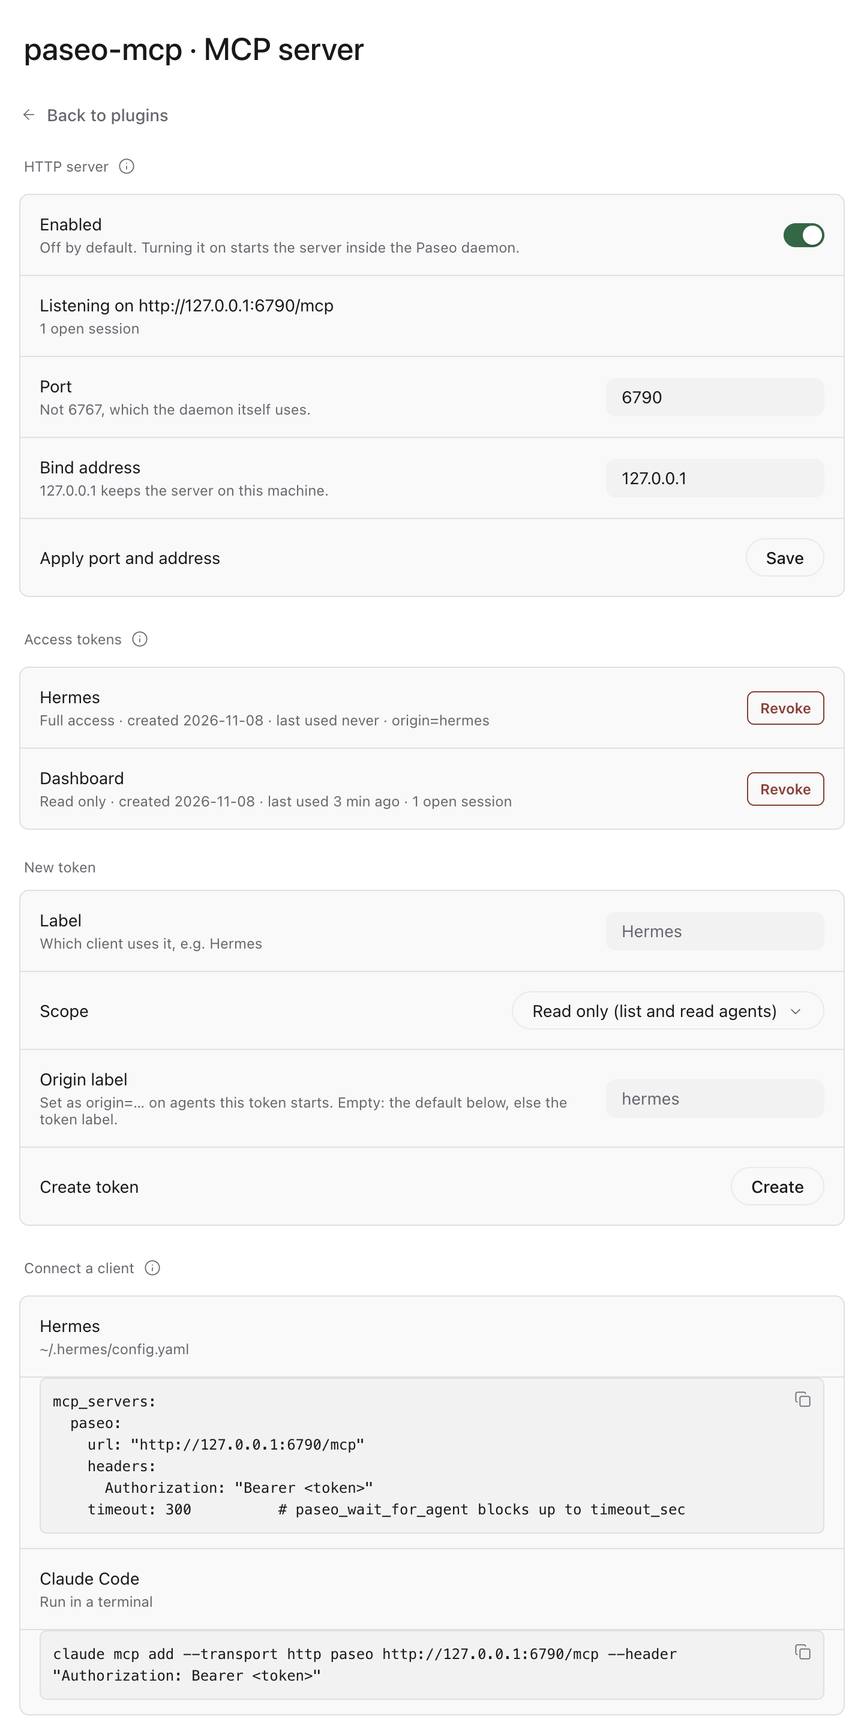
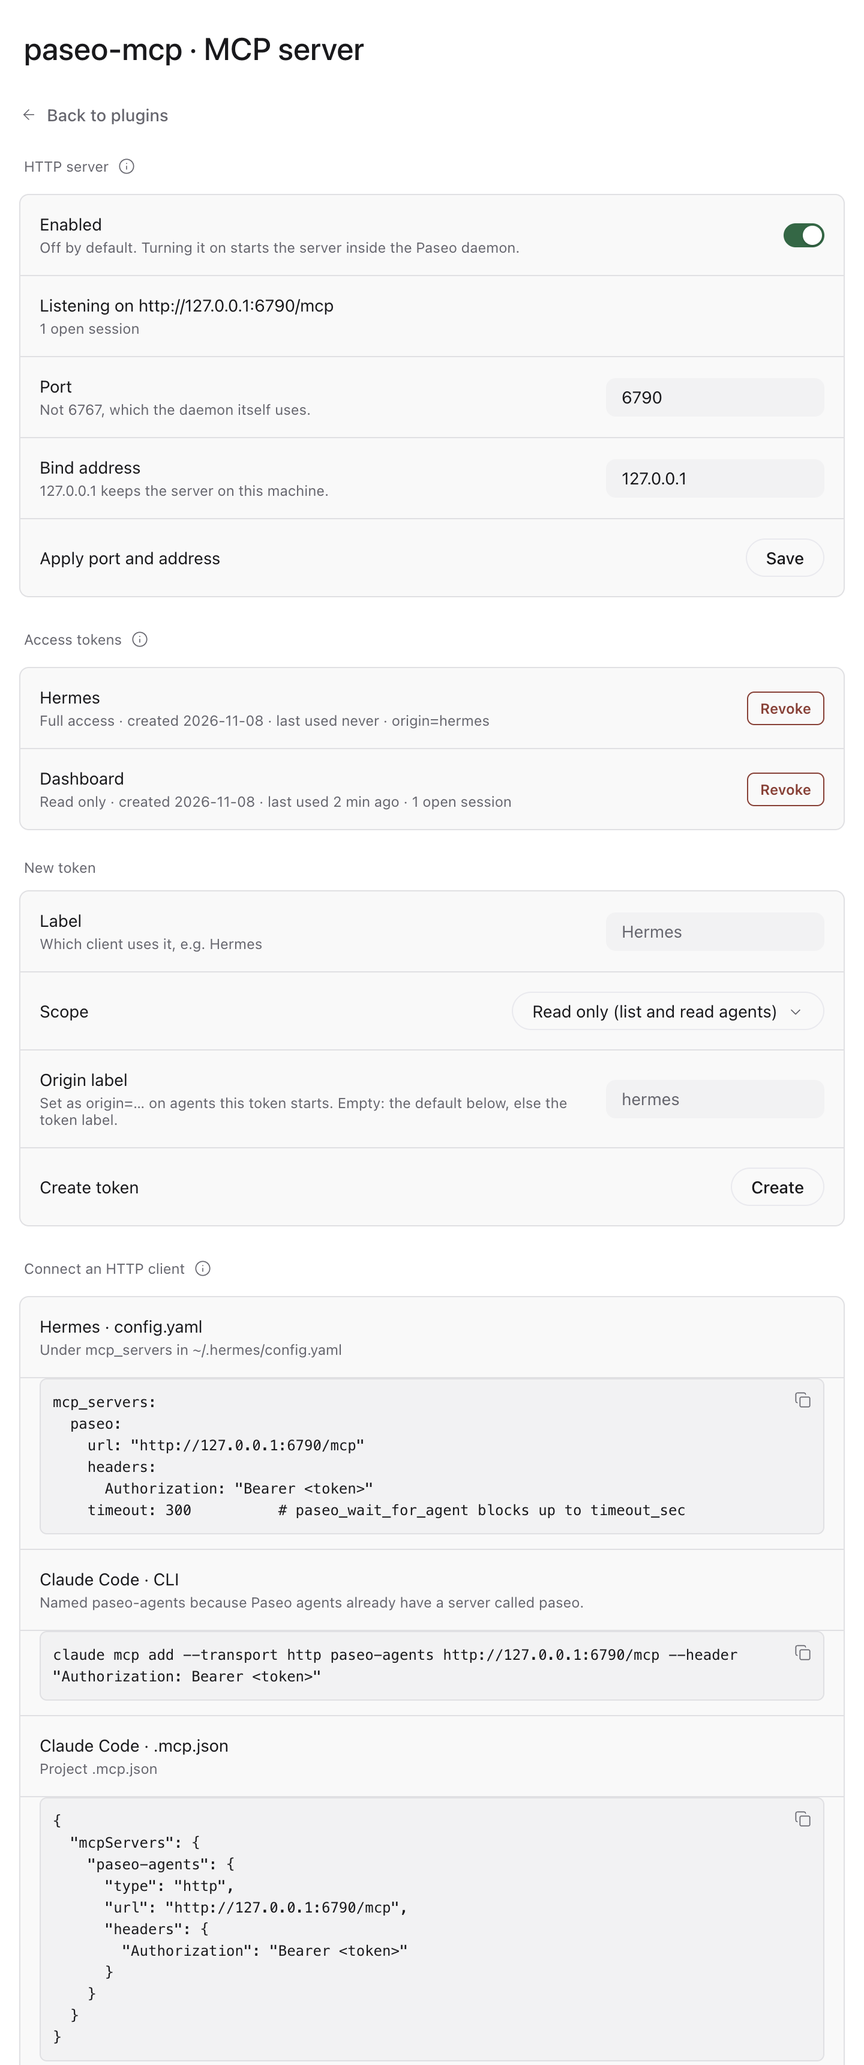
Document the launcher, connection test and stdio configs
README and the GitHub page describe the extras taken over from the local
plugin build: the stable launcher, the Test button, the stdio and
.mcp.json configs and local-credential sign-in. Screenshots are taken
fresh from an isolated daemon, including the phone width. CHANGELOG and
OVERVIEW come over from the local build, rewritten for this layout, and
NOTICE now names the plugin SDK and the MCP SDK.

diff --git a/docs/index.html b/docs/index.html
@@ -156,6 +156,10 @@
     footer .wrap { display: flex; flex-wrap: wrap; justify-content: space-between; gap: 12px; }
       .arch { display: flex; flex-wrap: wrap; align-items: center; gap: 10px; margin-bottom: 26px; }
     .shot { display: block; width: 100%; max-width: 560px; margin: 36px auto 0; border: 1px solid var(--border); border-radius: var(--radius); box-shadow: var(--shadow); }
+    .shots { display: flex; gap: 24px; justify-content: center; align-items: flex-start; }
+    .shots .shot { margin-left: 0; margin-right: 0; min-width: 0; }
+    .shots .shot.phone { max-width: 220px; }
+    @media (max-width: 640px) { .shots .shot.phone { display: none; } }
     .arch .box { background: var(--surface); border: 1px solid var(--border); border-radius: 12px; padding: 12px 16px; font-weight: 600; font-size: 15px; }
     .arch .box small { display: block; font-weight: 400; color: var(--muted); font-size: 13px; }
     .arch .box.hl { border-color: var(--accent); background: var(--accent-soft); }
@@ -262,7 +266,7 @@
       <pre><button class="copy" data-copy="git clone https://github.com/MaxGierlachowski/paseo-mcp.git
 cd paseo-mcp && npm install">Copy</button><code>git clone https://github.com/MaxGierlachowski/paseo-mcp.git
 cd paseo-mcp && npm install</code></pre>
-      <p class="note">Then copy <code>config.example.json</code> to <code>~/.config/paseo-mcp/config.json</code>, set <code>allowedRoots</code> to the folders agents may work in, and connect your client.</p>
+      <p class="note">Then copy <code>config.example.json</code> to <code>~/.config/paseo-mcp/config.json</code>, set <code>allowedRoots</code> to the folders agents may work in, and connect your client. With the <a href="#plugin">plugin</a> installed you can skip the clone: it keeps a launcher at <code>~/.local/bin/paseo-mcp</code>.</p>
     </div>
     <div>
       <h2 style="font-size:20px;margin-top:6px">You need</h2>
@@ -292,7 +296,8 @@ cd paseo-mcp && npm install</code></pre>
     <div>
       <h2>Connect Claude Code</h2>
       <p class="sub" style="margin-bottom:22px">One command, then the tools show up in every Claude Code session.</p>
-      <pre><button class="copy" data-copy="claude mcp add paseo -- node /path/to/paseo-mcp/dist/index.js">Copy</button><code>claude mcp add paseo -- node /path/to/paseo-mcp/dist/index.js</code></pre>
+      <pre><button class="copy" data-copy="claude mcp add paseo-agents -- node /path/to/paseo-mcp/dist/index.js">Copy</button><code>claude mcp add paseo-agents -- node /path/to/paseo-mcp/dist/index.js</code></pre>
+      <p class="note">Named <code>paseo-agents</code> because agents running inside Paseo already have a server called <code>paseo</code>.</p>
     </div>
   </div>
 </section>
@@ -300,14 +305,14 @@ cd paseo-mcp && npm install</code></pre>
 <section id="plugin">
   <div class="wrap">
     <h2>Plugin mode: MCP over HTTP from inside Paseo</h2>
-    <p class="sub">Installed as a Paseo plugin, the same ten tools are served over Streamable HTTP by the daemon itself. No separate process, no config file: everything is set on the plugin's settings screen, and every client gets its own token.</p>
+    <p class="sub">Installed as a Paseo plugin, the same ten tools are served over Streamable HTTP by the daemon itself. No separate process, no config file: everything is set on the plugin's settings screen, and every client gets its own token. stdio clients get a stable launcher, a connection test and ready-made configs from the same screen.</p>
     <div class="two">
       <div>
         <ol class="steps">
           <li><strong>Install the plugin</strong><span>Paseo clones it, runs <code>npm ci</code> and loads it. The HTTP server stays off.</span></li>
           <li><strong>Open the settings</strong><span>⌘K → <i>MCP server</i>, or Settings → Plugins → paseo-mcp. Add your allowed roots.</span></li>
           <li><strong>Create a token per client</strong><span>Label and scope: <i>read</i> for the five list/read tools, <i>full</i> for all ten. It is shown once.</span></li>
-          <li><strong>Turn the server on and connect</strong><span>Copy the ready snippet for Hermes or Claude Code from the same screen.</span></li>
+          <li><strong>Turn the server on and connect</strong><span>Copy the ready snippet for Hermes or Claude Code (CLI or <code>.mcp.json</code>) from the same screen.</span></li>
         </ol>
       </div>
       <div>
@@ -320,17 +325,39 @@ cd paseo-mcp && npm install</code></pre>
       Authorization: "Bearer &lt;token&gt;"
     timeout: 300</code></pre>
         <p class="note">Claude Code:</p>
-        <pre style="margin-top:12px"><button class="copy" data-copy='claude mcp add --transport http paseo http://127.0.0.1:6790/mcp --header "Authorization: Bearer <token>"'>Copy</button><code>claude mcp add --transport http paseo http://127.0.0.1:6790/mcp --header "Authorization: Bearer &lt;token&gt;"</code></pre>
+        <pre style="margin-top:12px"><button class="copy" data-copy='claude mcp add --transport http paseo-agents http://127.0.0.1:6790/mcp --header "Authorization: Bearer <token>"'>Copy</button><code>claude mcp add --transport http paseo-agents http://127.0.0.1:6790/mcp --header "Authorization: Bearer &lt;token&gt;"</code></pre>
       </div>
     </div>
-    <img class="shot" src="plugin-settings.png" alt="The MCP server settings screen in Paseo: HTTP server switch and status, port and bind address, access tokens with scope and last use, connection snippets, allowed roots, defaults and accounts." loading="lazy">
+    <div class="shots">
+      <img class="shot" src="plugin-settings.png" alt="The MCP server settings screen in Paseo: HTTP server switch and status, port and bind address, access tokens with scope and last use, HTTP client configs." loading="lazy">
+      <img class="shot phone" src="plugin-settings-phone.png" alt="The same screen at phone width." loading="lazy">
+    </div>
     <div class="grid" style="margin-top:28px">
       <div class="card"><h3>Off until you turn it on</h3><p>Then it binds to <code>127.0.0.1:6790</code>. Any other bind address must be typed in and comes with a warning.</p></div>
       <div class="card"><h3>A token on every request</h3><p>Also from localhost. Stored only as a SHA-256 hash and compared in constant time. Revoking one ends its open sessions.</p></div>
       <div class="card"><h3>Scopes per client</h3><p>A read token never sees a tool that changes something. The global read-only switch applies on top.</p></div>
       <div class="card"><h3>No DNS rebinding</h3><p>Host and Origin headers must point at the server itself, and bodies are capped at 1 MiB.</p></div>
       <div class="card"><h3>Same guard rails</h3><p><code>allowedRoots</code> is checked on the daemon side, agents get an <code>origin</code> label per token, and permissions are never allowed on their own.</p></div>
-      <div class="card"><h3>stdio keeps working</h3><p><code>node dist/index.js</code> with <code>~/.config/paseo-mcp/config.json</code> behaves exactly as before.</p></div>
+      <div class="card"><h3>stdio keeps working</h3><p><code>node dist/index.js</code> with <code>~/.config/paseo-mcp/config.json</code> behaves as before, and signs in with Paseo's local credential when the daemon has a password.</p></div>
+    </div>
+    <h2 style="font-size:22px;margin-top:48px">stdio clients through the plugin</h2>
+    <p class="sub" style="margin-bottom:22px">Clients that start the server as a child process need neither the HTTP server nor a token.</p>
+    <div class="two">
+      <div>
+        <ul class="req">
+          <li><svg width="16" height="16" viewBox="0 0 24 24" fill="none" stroke="currentColor" stroke-width="2.6" stroke-linecap="round" stroke-linejoin="round"><path d="M20 6 9 17l-5-5"/></svg><span><strong>A stable command.</strong> <code>~/.local/bin/paseo-mcp</code> is rewritten on every load and follows plugin updates. A file the plugin did not write is never touched.</span></li>
+          <li><svg width="16" height="16" viewBox="0 0 24 24" fill="none" stroke="currentColor" stroke-width="2.6" stroke-linecap="round" stroke-linejoin="round"><path d="M20 6 9 17l-5-5"/></svg><span><strong>Test connection.</strong> Starts the server exactly like a client, lists the tools and counts the agents.</span></li>
+          <li><svg width="16" height="16" viewBox="0 0 24 24" fill="none" stroke="currentColor" stroke-width="2.6" stroke-linecap="round" stroke-linejoin="round"><path d="M20 6 9 17l-5-5"/></svg><span><strong>Status at a glance.</strong> Config file, allowed roots, accounts and how the server signs in; the credential stays masked.</span></li>
+          <li><svg width="16" height="16" viewBox="0 0 24 24" fill="none" stroke="currentColor" stroke-width="2.6" stroke-linecap="round" stroke-linejoin="round"><path d="M20 6 9 17l-5-5"/></svg><span><strong>Copyable configs</strong> for Hermes, Claude Code (<code>.mcp.json</code> and CLI) and any stdio client.</span></li>
+        </ul>
+        <pre style="margin-top:22px"><code>mcp_servers:
+  paseo:
+    command: "/Users/you/.local/bin/paseo-mcp"
+    env:
+      PASEO_MCP_CONFIG: "/Users/you/.config/paseo-mcp/config.json"
+    timeout: 300</code></pre>
+      </div>
+      <div><img class="shot" style="margin-top:0" src="plugin-stdio.png" alt="The stdio section: command, Test button, config file and sign-in status, Hermes config." loading="lazy"></div>
     </div>
   </div>
 </section>

diff --git a/README.md b/README.md
@@ -29,7 +29,7 @@ It runs in one of two ways, with the same ten tools:
 | Transport | stdin/stdout | Streamable HTTP at `http://127.0.0.1:6790/mcp` |
 | Configured in | `~/.config/paseo-mcp/config.json` | Settings → Plugins → paseo-mcp |
 | Access | whoever can start the process | a bearer token per client, scoped `read` or `full` |
-| Set up | [Install](#install) | [Plugin mode](#plugin-mode) |
+| Set up | [Install](#install), or the plugin's launcher `~/.local/bin/paseo-mcp` | [Plugin mode](#plugin-mode) |
 
 ## Features
 
@@ -41,7 +41,7 @@ It runs in one of two ways, with the same ten tools:
 | **Steer running agents** | Send follow-ups; for a running turn choose *steer* (inject) or *interrupt* (restart with the message). |
 | **Wait for results** | Block until a turn ends, fails, or needs a permission, and get the final message back. |
 | **Guard rails** | Agents only start inside `allowedRoots`, everything gets an `origin` label, a read-only mode, and agent output is marked as data, not instructions. |
-| **Paseo plugin** | Optional: serve the tools over HTTP from inside Paseo, with per-client tokens and a settings screen. |
+| **Paseo plugin** | Optional: serve the tools over HTTP from inside Paseo, with per-client tokens and a settings screen. It also keeps a stable stdio launcher, tests the connection and hands out ready client configs. |
 
 ## Tools
 
@@ -80,6 +80,8 @@ cp config.example.json ~/.config/paseo-mcp/config.json
 
 Then edit `~/.config/paseo-mcp/config.json` (see below) and connect your client.
 
+Installed the [plugin](#plugin-mode)? Then you don't need a clone: the plugin keeps a stable launcher at `~/.local/bin/paseo-mcp` and shows ready-made stdio configs, see [stdio clients through the plugin](#stdio-clients-through-the-plugin).
+
 ### Hermes
 
 `~/.hermes/config.yaml`:
@@ -100,8 +102,10 @@ Hermes only passes `PATH` and `HOME` to MCP servers; anything else belongs under
 ### Claude Code
 
 ```sh
-claude mcp add paseo -- node /path/to/paseo-mcp/dist/index.js
+claude mcp add paseo-agents -- node /path/to/paseo-mcp/dist/index.js
 ```
+
+Named `paseo-agents` because agents running inside Paseo already have an MCP server called `paseo`.
 
 ## Configuration
 
@@ -110,7 +114,7 @@ claude mcp add paseo -- node /path/to/paseo-mcp/dist/index.js
 | Key | Default | Meaning |
 |---|---|---|
 | `daemonUrl` | `ws://127.0.0.1:6767/ws` | WebSocket of the Paseo daemon |
-| `password` | – | Daemon password, if set. `PASEO_PASSWORD` wins |
+| `password` | – | Daemon password, if set. `PASEO_PASSWORD` wins. Without one, the server signs in with `$PASEO_HOME/local-credential` (loopback daemons only), like the `paseo` CLI |
 | `allowedRoots` | **required** | Agents may only start inside these folders (symlinks resolved) |
 | `defaultProvider` | – | `provider/model`, e.g. `claude/claude-sonnet-5-5`. Check with `paseo_list_models` |
 | `defaultThinking` | – | e.g. `low`, `medium`, `high` |
@@ -131,7 +135,10 @@ If you use [paseo-multi-account](https://github.com/MaxGierlachowski/paseo-multi
 
 Installed as a Paseo plugin, paseo-mcp serves the same tools over [Streamable HTTP](https://modelcontextprotocol.io/specification/2025-06-18/basic/transports#streamable-http) from inside the Paseo daemon. There is no process to start and no config file: everything is set on the plugin's settings screen. The stdio mode above keeps working unchanged next to it.
 
-<p align="center"><img src="docs/plugin-settings.png" alt="The MCP server settings screen in Paseo" width="520"></p>
+<p align="center">
+  <img src="docs/plugin-settings.png" alt="The MCP server settings screen in Paseo: HTTP server, tokens, HTTP client configs" width="420">
+  <img src="docs/plugin-settings-phone.png" alt="The same screen in the Paseo phone app width" width="200">
+</p>
 
 ### Install
 
@@ -141,11 +148,11 @@ paseo plugin install github:MaxGierlachowski/paseo-mcp
 
 On macOS the CLI ships inside the app: `/Applications/Paseo.app/Contents/Resources/bin/paseo`. Paseo asks you to trust the plugin (plugins run unsandboxed), clones it, runs `npm ci --omit=dev` and loads it. Plugins must be enabled (`"pluginsEnabled": true` in `~/.paseo/config.json`). The HTTP server stays **off** until you turn it on.
 
-If another plugin already uses the id `paseo-mcp`, Paseo refuses the install; remove that one first or pass `--id`.
+If another plugin already uses the id `paseo-mcp` (for example the earlier local "Paseo MCP for Hermes" build), Paseo refuses the install; remove that one first or pass `--id`. This plugin covers everything the local build did and takes over its launcher.
 
 ### Set up
 
-1. Open the settings: ⌘K → **MCP server**, or Settings → Plugins → paseo-mcp.
+1. Open the settings: ⌘K → **MCP server** (also finds "hermes", "token", "config"), or Settings → Plugins → paseo-mcp.
 2. Under **Agents**, add the folders agents may start in (`allowedRoots`). Without one, `paseo_create_agent` refuses every start.
 3. Under **New token**, create one token per client: a label (e.g. `Hermes`), a scope, optionally an origin label. Copy the token; it is shown **once**.
 4. Turn on **Enabled**. The status row shows the URL, or why the server could not start (e.g. the port is taken).
@@ -179,13 +186,30 @@ mcp_servers:
     timeout: 300          # paseo_wait_for_agent blocks up to timeout_sec
 ```
 
-Claude Code:
+Claude Code, as a command or in a project `.mcp.json`:
 
 ```sh
-claude mcp add --transport http paseo http://127.0.0.1:6790/mcp --header "Authorization: Bearer <token>"
+claude mcp add --transport http paseo-agents http://127.0.0.1:6790/mcp --header "Authorization: Bearer <token>"
+```
+
+```json
+{ "mcpServers": { "paseo-agents": { "type": "http", "url": "http://127.0.0.1:6790/mcp", "headers": { "Authorization": "Bearer <token>" } } } }
 ```
 
 Any other client: Streamable HTTP, URL `http://127.0.0.1:6790/mcp`, header `Authorization: Bearer <token>`.
+
+### stdio clients through the plugin
+
+Clients that start the server as a child process don't need the HTTP server or a token. The plugin helps there too:
+
+<p align="center"><img src="docs/plugin-stdio.png" alt="The stdio section: command, Test button, config file and sign-in status" width="460"></p>
+
+- **A stable command.** On every load the plugin writes `~/.local/bin/paseo-mcp` (another path via `PASEO_MCP_LAUNCHER`), a two-line script that starts `dist/index.js` of the current plugin checkout. Git installs land in a new folder on every update; the launcher follows them, so client configs never change. It never overwrites a file it did not write.
+- **Test connection.** Starts the server exactly like a client does (only `PATH`, `HOME` and `PASEO_MCP_CONFIG`), lists the tools and counts the agents.
+- **Status.** Which config file the stdio server reads, its allowed roots and accounts, and how it signs in to the daemon. The local credential is shown masked and never leaves the daemon.
+- **Copyable configs** for Hermes (`command:`), Claude Code (`.mcp.json` and `claude mcp add`) and any stdio client.
+
+The stdio server keeps its own config file (`~/.config/paseo-mcp/config.json`); the screen shows it but never edits it.
 
 ### Security model
 
@@ -236,15 +260,18 @@ Starting agents with repository and tool access is powerful. Keep in mind:
 npm run build                          # compile server/ to dist/
 npm test                               # build, then unit and HTTP integration tests
 npm run typecheck                      # the plugin entry points and settings screen
+SMOKE_COMMAND=~/.local/bin/paseo-mcp npm run smoke   # same, through the launcher
 PASEO_MCP_CONFIG=~/.config/paseo-mcp/config.json \
   npm run smoke -- paseo_list_accounts 'paseo_list_agents={"limit":5}'
 ```
 
-`smoke.mjs` starts the server like an MCP client would and calls the tools you name (`tool=<json args>`).
+`smoke.mjs` starts the server like an MCP client would (only `PATH`, `HOME`, `PASEO_MCP_CONFIG`) and calls the tools you name (`tool=<json args>`); it exits non-zero when a tool returns an error.
 
-Layout: `server/` holds the tools (`tools.ts`), the HTTP transport (`http.ts`, `auth.ts`) and the stdio entry (`index.ts`, built to `dist/index.js`); `server/plugin/` the daemon side of the plugin; `shared/` the settings and RPC contracts; `client/` the settings screen. `index.server.ts` and `index.client.tsx` are the plugin entry points, compiled by Paseo itself. To try the plugin from a checkout, run `npm ci --omit=dev --ignore-scripts` in a copy of it (a directory install skips the build step) and `paseo plugin install <dir>`; test against a separate daemon with `--home <tmp-dir>` rather than your everyday one.
+Layout: `server/` holds the tools (`tools.ts`), the HTTP transport (`http.ts`, `auth.ts`) and the stdio entry (`index.ts`, built to `dist/index.js`); `server/plugin/` the daemon side of the plugin; `shared/` the settings and RPC contracts; `client/` the settings screen. `index.server.ts` and `index.client.tsx` are the plugin entry points, compiled by Paseo itself. To try the plugin from a checkout, run `npm ci --ignore-scripts && npm run build && npm prune --omit=dev` in a copy of it (a directory install skips the manifest's build step, a git install runs exactly these) and `paseo plugin install <dir>`; test against a separate daemon with `--home <tmp-dir>` rather than your everyday one.
 
 Tested against Paseo daemon 0.15 and `@getpaseo/client` 0.15.
+
+Internals of the plugin are in [OVERVIEW.md](OVERVIEW.md), changes in [CHANGELOG.md](CHANGELOG.md).
 
 ## License
 

diff --git a/OVERVIEW.md b/OVERVIEW.md
@@ -1,0 +1,54 @@
+# How the plugin works
+
+The README covers installing and using paseo-mcp. This page is for reading the code.
+
+## Two entry points, one set of tools
+
+- `server/tools.ts` registers the ten `paseo_*` tools on any `McpServer`. It gets a config getter,
+  a function returning a connected `PaseoApi`, and a scope.
+- `server/index.ts` is the stdio server (`dist/index.js`): config file, one `@getpaseo/client`
+  connection, stdin/stdout.
+- `index.server.ts` is the plugin's daemon side: settings, the HTTP server, the launcher and the
+  RPCs the settings screen calls. `index.client.tsx` registers the settings screen and the ⌘K item.
+
+Paseo bundles plugin modules only from `client/`, `server/` and `shared/`, so all source lives there;
+`tsc` builds `server/*.ts` (not `server/plugin/`) into `dist/`.
+
+## HTTP server (`server/http.ts`, `server/auth.ts`)
+
+Every request passes, in order: path `/mcp`, `Host`, `Origin`, bearer token, body size. A new
+session (an `initialize` without `Mcp-Session-Id`) gets its own `McpServer` with the tools of its
+token's scope; later requests must come with the same token. Sessions idle for an hour are closed.
+
+## Settings (`shared/settings.ts`, `server/plugin/runtime.ts`)
+
+The settings document is stored by the Paseo host. The daemon side can read and subscribe to it but
+not write it, so:
+
+- a token is created by an RPC that returns the token and its record; the screen stores the record
+  (hash only) and shows the token once;
+- when a token was last used lives in `$PASEO_HOME/paseo-mcp.json`.
+
+Every change runs through one queue: enable/port/bind restart the listener, removed or changed
+tokens lose their sessions, a readOnly switch closes all sessions (their tool set is fixed at
+initialize). Everything else is read on each tool call.
+
+## Reaching the daemon
+
+The SDK hands out a `PaseoApi` only inside hook and RPC handlers. MCP requests arrive on the plugin's
+own listener, so `server/plugin/daemon.ts` keeps one loopback connection, made like the `paseo` CLI:
+address from `$PASEO_HOME/paseo.pid`, credential from `$PASEO_HOME/local-credential`. The stdio server
+uses the same credential when its config has no password.
+
+## Launcher (`server/plugin/launcher.ts`)
+
+Git installs land in a new versioned folder on every update. On every load the plugin finds its
+checkout (the configured plugin directory whose manifest has id `paseo-mcp`) and writes
+`~/.local/bin/paseo-mcp` pointing at `bin/paseo-mcp` there. A file without the marker line
+`# managed-by: paseo plugin paseo-mcp` is never touched. The plugin build (`npm ci`, `npm run build`,
+`npm prune --omit=dev`) produces the `dist/` it starts.
+
+## Safe to load
+
+No agent hooks, so installing, reloading or removing the plugin never marks open agent sessions
+stale. The Test button starts its own short-lived stdio process and does not touch running clients.

diff --git a/CHANGELOG.md b/CHANGELOG.md
@@ -1,0 +1,28 @@
+# Changelog
+
+## 0.2.0 (unreleased)
+
+Paseo plugin mode, which replaces the earlier local "Paseo MCP for Hermes" plugin build.
+
+- **Streamable HTTP** at `/mcp` from inside the Paseo daemon, one MCP session per client. Off by
+  default, binds to `127.0.0.1`.
+- **Bearer tokens** per client with scope `read` (5 tools) or `full` (10), stored as SHA-256 hashes,
+  revocable (open sessions end), per-token `origin` label. Host/Origin checks against DNS rebinding,
+  1 MiB body limit.
+- **Settings screen** (Settings → Plugins → paseo-mcp, ⌘K "MCP server"): server switch and status,
+  port and bind address, tokens, allowed roots, defaults, accounts, copyable configs for Hermes and
+  Claude Code (CLI and `.mcp.json`).
+- **stdio through the plugin:** stable launcher `~/.local/bin/paseo-mcp` that follows plugin updates
+  and never overwrites a foreign file, a Test button that starts the server like a client, config and
+  sign-in status, copyable stdio configs.
+- **stdio signs in with `local-credential`** when no password is configured (loopback only), so it
+  keeps working when the daemon has a password.
+- Tools moved to `server/tools.ts`, shared by both modes; names, schemas and behaviour unchanged.
+  Source moved from `src/` to `server/`; `dist/index.js` stays.
+- `npm test` (unit and HTTP integration tests), `npm run typecheck`; `smoke.mjs` takes
+  `SMOKE_COMMAND` and fails on tool errors.
+
+## 0.1.0 (2026-11-04)
+
+- stdio MCP server with ten tools: list, read and start agents, send follow-ups, wait, answer
+  permissions, archive. `allowedRoots`, `origin`/`account` labels, read-only mode.
